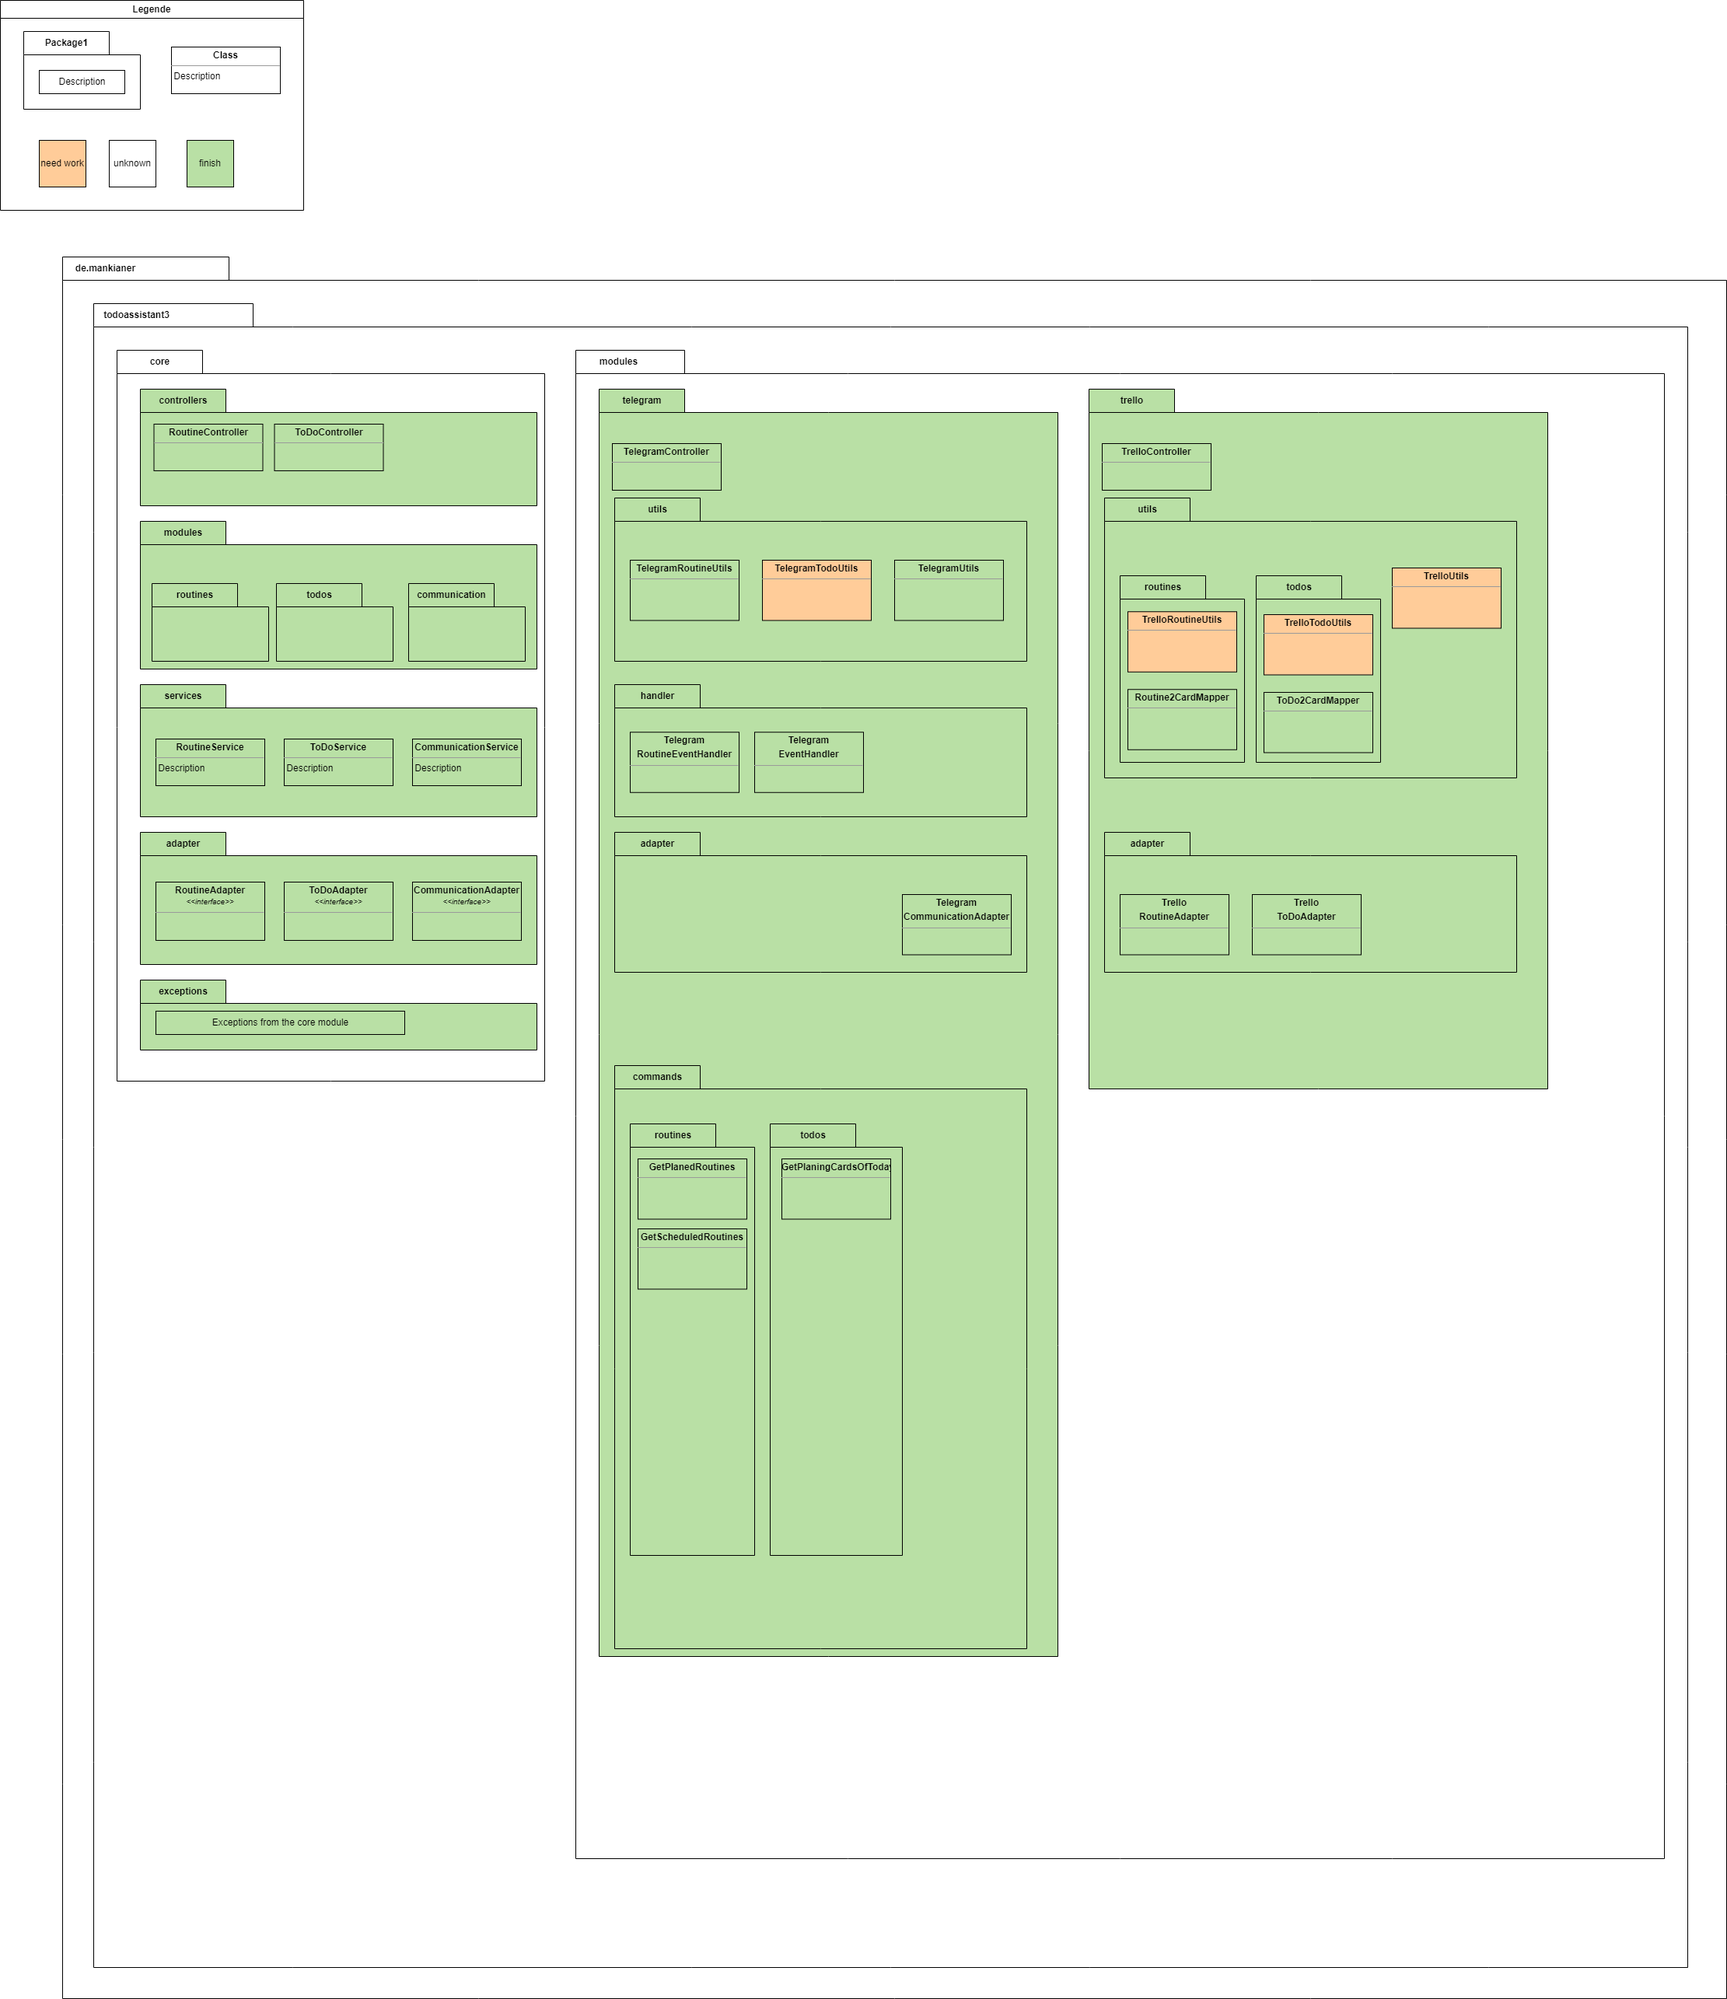
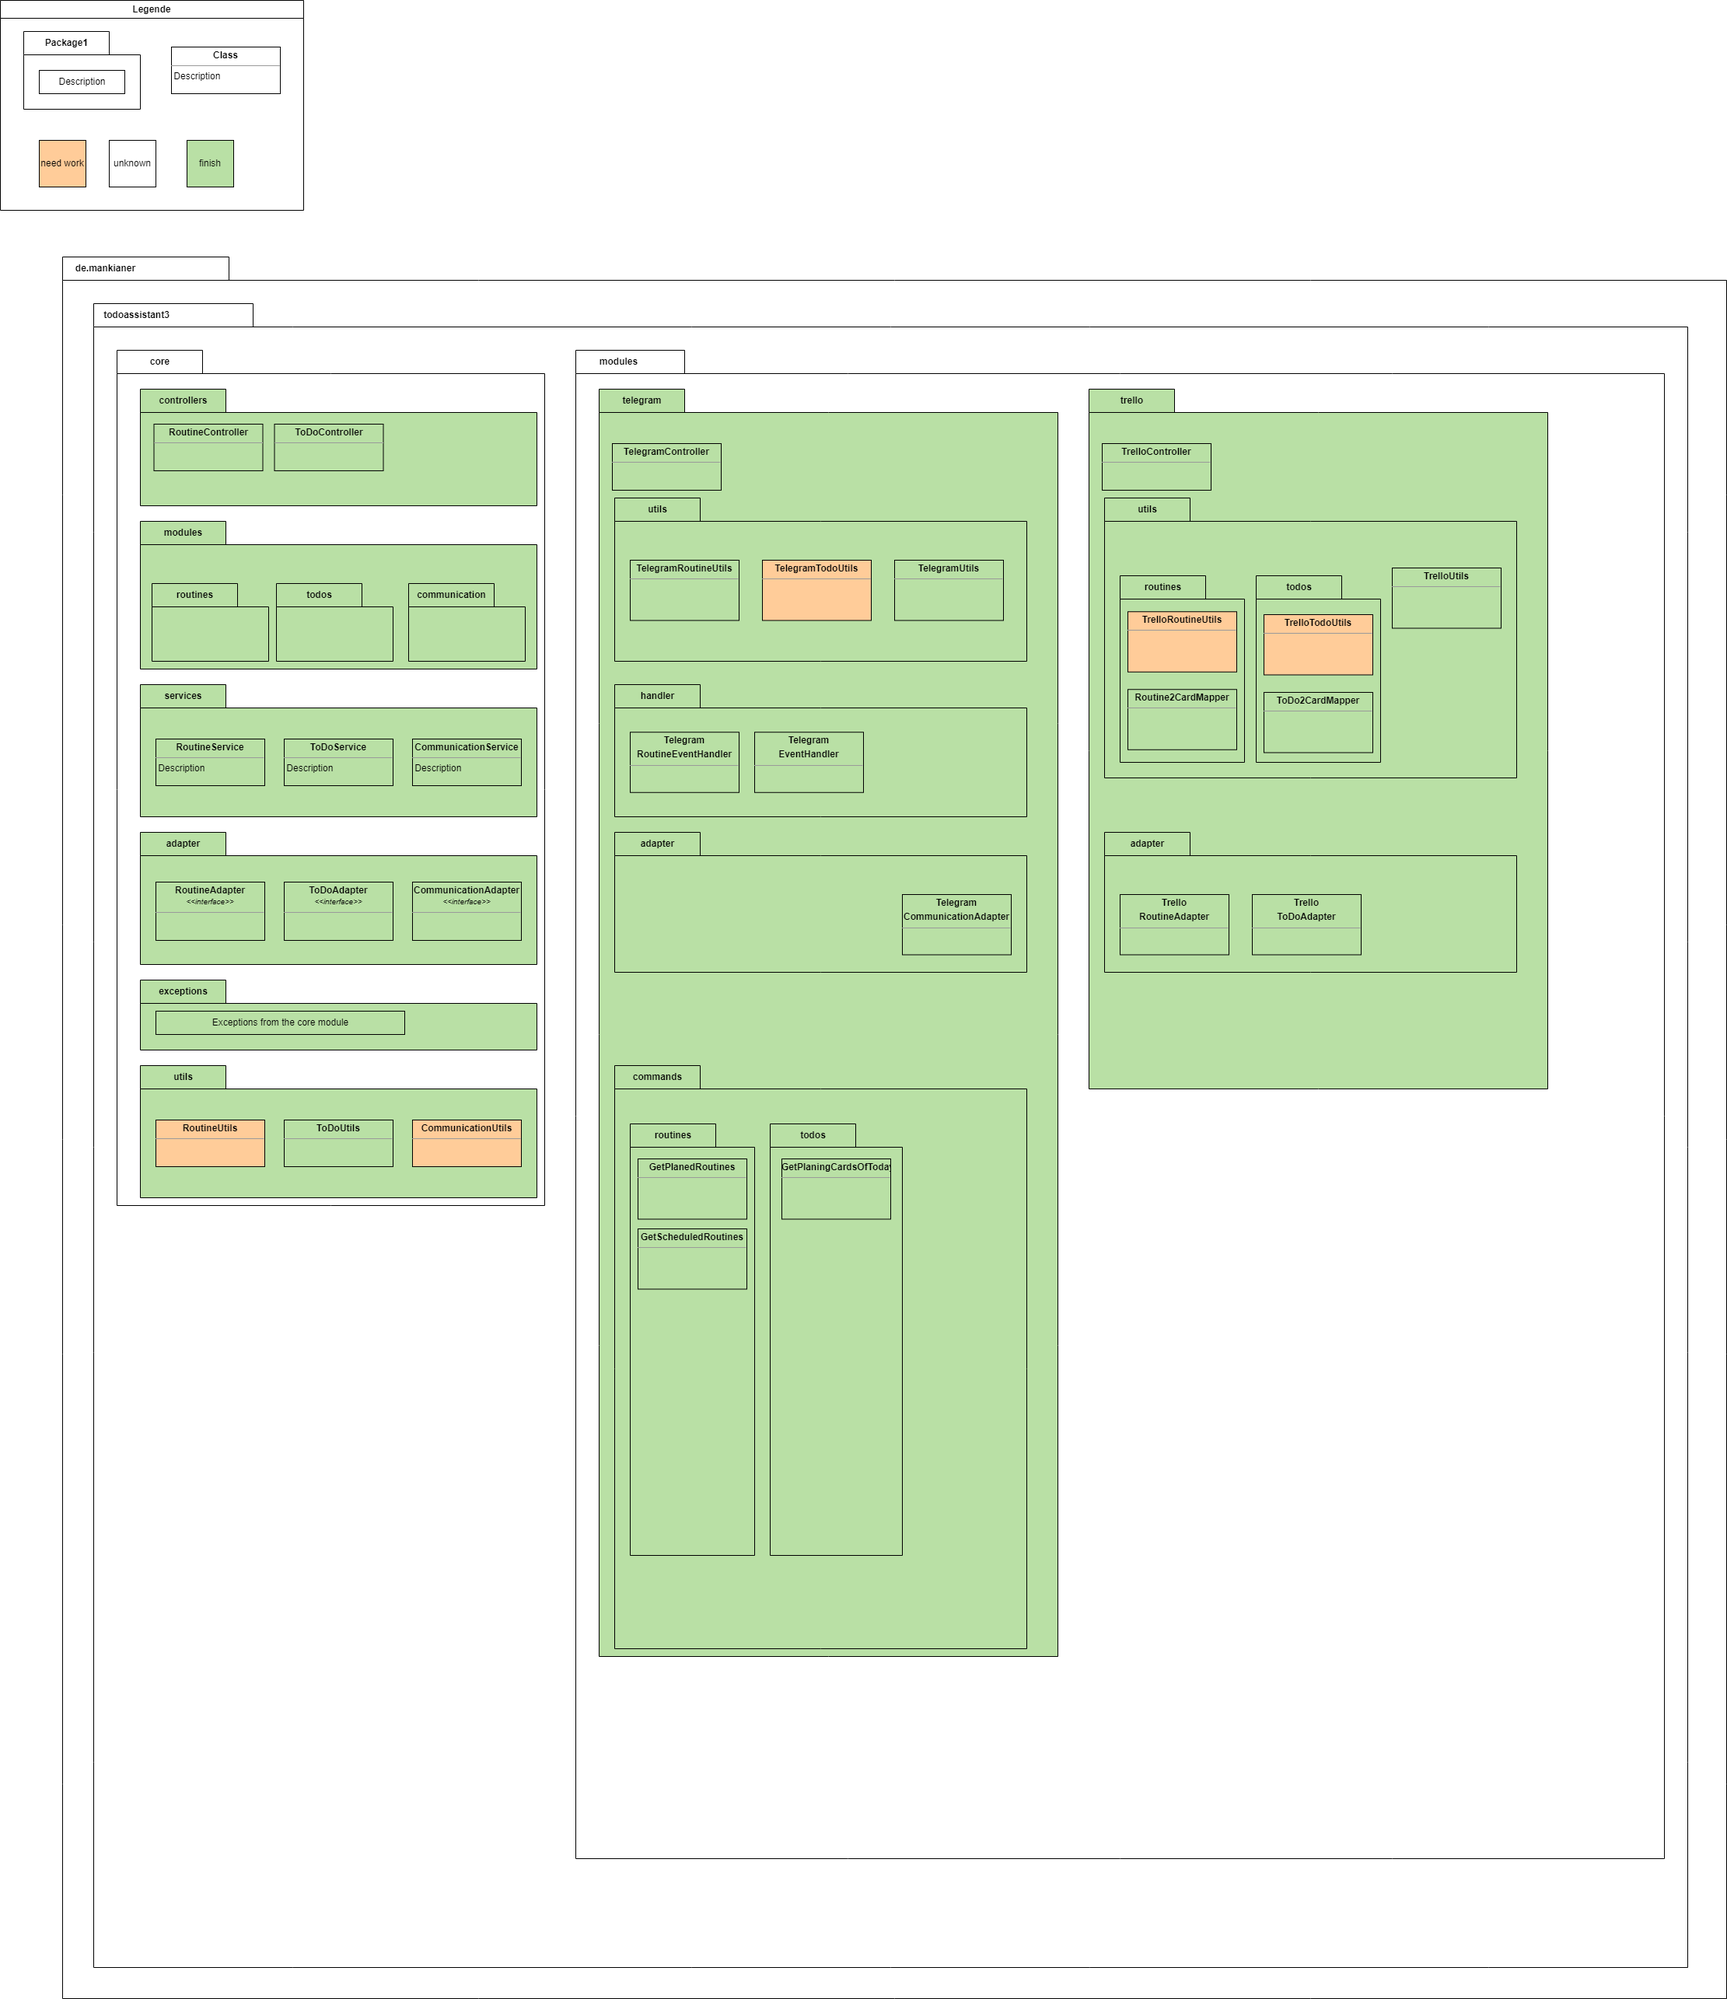
refactor

Changed region(s): [[0.0621, 0.529, 0.3107, 0.6223], [0.8077, 0.28, 0.8699, 0.3112]]

diff --git a/src/main/java/de/mankianer/todoassistant3/modules/telegram/commands/todos/GetPlaningCardsOfToday.java b/src/main/java/de/mankianer/todoassistant3/modules/telegram/commands/todos/GetPlaningCardsOfToday.java
@@ -3,9 +3,9 @@ package de.mankianer.todoassistant3.modules.telegram.commands.todos;
 import de.mankianer.mankianerstelegramspringstarter.TelegramService;
 import de.mankianer.mankianerstelegramspringstarter.commands.models.TelegramCommand;
 import de.mankianer.mankianerstelegramspringstarter.commands.models.TelegramInMessage;
-import de.mankianer.todoassistant3.Utils;
 import de.mankianer.todoassistant3.core.models.todos.ToDoStatus;
 import de.mankianer.todoassistant3.core.services.ToDoService;
+import de.mankianer.todoassistant3.core.utils.ToDoUtils;
 import org.springframework.stereotype.Component;
 
 import java.time.LocalDateTime;
@@ -30,10 +30,10 @@ public class GetPlaningCardsOfToday extends TelegramCommand {
     if (args.length > 0 && "all".equals(args[0])) {
       planingCardsWithDueTodayAsMessageWithMarkdown = "*Alle Todos in Planung:*";
       planingCardsWithDueTodayAsMessageWithMarkdown +=
-              Utils.TodosToMarkdownMessage(toDoService.getAllToDosByStatus(ToDoStatus.IN_PLANING));
+              ToDoUtils.TodosToMarkdownMessage(toDoService.getAllToDosByStatus(ToDoStatus.IN_PLANING));
     } else {
       planingCardsWithDueTodayAsMessageWithMarkdown =
-          Utils.TodosToMarkdownMessage(toDoService.getAllToDosByStatus(ToDoStatus.IN_PLANING).stream().filter(toDo -> !toDo.getDueDate().isAfter(LocalDateTime.now())).toList());
+              ToDoUtils.TodosToMarkdownMessage(toDoService.getAllToDosByStatus(ToDoStatus.IN_PLANING).stream().filter(toDo -> !toDo.getDueDate().isAfter(LocalDateTime.now())).toList());
       if (planingCardsWithDueTodayAsMessageWithMarkdown.isBlank()) {
         planingCardsWithDueTodayAsMessageWithMarkdown =
             "Es müssen heute keine Todos eingeplant werden\\.\nMit /plan all kannst du dir alle ToDos in der Planung ausgeben lassen\\.";

diff --git a/src/main/java/de/mankianer/todoassistant3/Utils.java b/src/main/java/de/mankianer/todoassistant3/Utils.java
@@ -1,45 +1,12 @@
 package de.mankianer.todoassistant3;
 
-import com.julienvey.trello.domain.Card;
-import de.mankianer.todoassistant3.core.models.todos.ToDo;
 import lombok.NonNull;
 
-import java.time.LocalDate;
 import java.time.LocalDateTime;
-import java.time.ZoneId;
-import java.util.Date;
-import java.util.List;
 
 public class Utils {
 
-  public static LocalDateTime convertToLocalDateTimeViaInstant(Date dateToConvert) {
-    return dateToConvert.toInstant().atZone(ZoneId.systemDefault()).toLocalDateTime();
-  }
-
-  public static Date convertToDateViaInstant(LocalDateTime dateToConvert) {
-    return java.util.Date.from(dateToConvert.atZone(ZoneId.systemDefault()).toInstant());
-  }
-
-  public static boolean isBevorOrToday(@NonNull Date date) {
-    LocalDateTime localDateTime = convertToLocalDateTimeViaInstant(date);
-    LocalDate localDate = localDateTime.toLocalDate();
-    LocalDate today = LocalDate.now();
-    return localDate.isEqual(today) || localDate.isBefore(today);
-  }
-
-  public static String TodosToMarkdownMessage(List<ToDo> todos) {
-    String ret = "";
-    for (ToDo todo : todos) {
-      ret += String.format("\n  \\*__%s__: *%s* ", todo.getId(), todo.getName());
-    }
-    return ret;
-  }
-
-  public static String CardsToMarkdownMessage(List<Card> cards) {
-    String ret = "";
-    for (Card card : cards) {
-      ret += String.format("\n  \\*__%s__: *%s* ", card.getId(), card.getName());
-    }
-    return ret;
+  public static boolean isBevorOrToday(@NonNull LocalDateTime localDate) {
+    return localDate.isEqual(LocalDateTime.now()) || localDate.isBefore(LocalDateTime.now());
   }
 }

diff --git a/src/main/java/de/mankianer/todoassistant3/modules/trello/utils/todos/ToDo2CardMapper.java b/src/main/java/de/mankianer/todoassistant3/modules/trello/utils/todos/ToDo2CardMapper.java
@@ -2,9 +2,9 @@ package de.mankianer.todoassistant3.modules.trello.utils.todos;
 
 import com.julienvey.trello.Trello;
 import com.julienvey.trello.domain.Card;
-import de.mankianer.todoassistant3.Utils;
 import de.mankianer.todoassistant3.core.models.todos.ToDo;
 import de.mankianer.todoassistant3.core.models.todos.ToDoStatus;
+import de.mankianer.todoassistant3.modules.trello.utils.TrelloUtils;
 import org.springframework.lang.NonNull;
 
 import java.util.HashMap;
@@ -17,7 +17,7 @@ public class ToDo2CardMapper {
 
     public ToDo mapCardToToDo(@NonNull Card card) {
         ToDo.ToDoBuilder builder = ToDo.builder();
-        if(card.getDue() != null) builder.dueDate(Utils.convertToLocalDateTimeViaInstant(card.getDue()));
+        if(card.getDue() != null) builder.dueDate(TrelloUtils.convertToLocalDateTimeViaInstant(card.getDue()));
         return builder
                 .id(card.getId())
                 .name(card.getName())
@@ -39,7 +39,7 @@ public class ToDo2CardMapper {
         card.setName(toDo.getName());
         card.setDesc(toDo.getDescription());
         card.setIdList(listIdMap.get(toDo.getStatus()));
-        if(toDo.getDueDate() != null) card.setDue(Utils.convertToDateViaInstant(toDo.getDueDate()));
+        if(toDo.getDueDate() != null) card.setDue(TrelloUtils.convertToDateViaInstant(toDo.getDueDate()));
         return card;
     }
 

diff --git a/src/main/java/de/mankianer/todoassistant3/modules/trello/adapter/TrelloToDoAdapter.java b/src/main/java/de/mankianer/todoassistant3/modules/trello/adapter/TrelloToDoAdapter.java
@@ -6,7 +6,6 @@ import com.julienvey.trello.domain.Card;
 import com.julienvey.trello.domain.TList;
 import com.julienvey.trello.impl.TrelloImpl;
 import com.julienvey.trello.impl.http.ApacheHttpClient;
-import de.mankianer.todoassistant3.Utils;
 import de.mankianer.todoassistant3.core.adapter.ToDoAdapter;
 import de.mankianer.todoassistant3.core.exceptions.CouldNotCreateException;
 import de.mankianer.todoassistant3.core.models.todos.ToDo;
@@ -81,21 +80,6 @@ public class TrelloToDoAdapter implements ToDoAdapter {
 
   public List<Card> getCards(TList list) {
     return trelloApi.getListCards(list.getId());
-  }
-
-  public List<Card> getPlaningCardsWithDueToday() {
-    return trelloApi.getListCards(planingList.getId()).stream()
-        .filter(card -> card.getDue() != null && Utils.isBevorOrToday(card.getDue()))
-        .collect(Collectors.toList());
-  }
-
-  public String getPlaningCardsWithDueTodayAsMessageWithMarkdown() {
-    List<Card> planingCardsWithDueToday = getPlaningCardsWithDueToday();
-    if (planingCardsWithDueToday.size() == 0) {
-      return "";
-    }
-    return "Folgende ToDos stehen in Planung, die heute eingeplant werden müssen:\n  Du kannst diese mit /plan erneut abfragen\n"
-        + Utils.CardsToMarkdownMessage(planingCardsWithDueToday);
   }
 
   @Override

diff --git a/src/main/java/de/mankianer/todoassistant3/core/controllers/ToDoController.java b/src/main/java/de/mankianer/todoassistant3/core/controllers/ToDoController.java
@@ -1,9 +1,12 @@
 package de.mankianer.todoassistant3.core.controllers;
 
+import de.mankianer.todoassistant3.core.models.communication.Message;
 import de.mankianer.todoassistant3.core.services.CommunicationService;
 import de.mankianer.todoassistant3.core.services.ToDoService;
+import de.mankianer.todoassistant3.core.utils.ToDoUtils;
 import lombok.extern.log4j.Log4j2;
 import org.springframework.beans.factory.annotation.Autowired;
+import org.springframework.scheduling.annotation.Scheduled;
 import org.springframework.stereotype.Service;
 
 @Log4j2
@@ -16,6 +19,14 @@ public class ToDoController {
     public ToDoController(@Autowired ToDoService toDoService, @Autowired CommunicationService communicationService) {
         this.toDoService = toDoService;
         this.communicationService = communicationService;
+    }
+
+    @Scheduled(cron = "${todo.checkToPlaning.cron.expression}")
+    public void checkToPlaningList() {
+        String planingCardsWithDueTodayAsMessageWithMarkdown = ToDoUtils.getPlaningToDosWithDueTodayAsMessageWithMarkdown(toDoService.getPlaningCardsWithDueToday());
+        if (!planingCardsWithDueTodayAsMessageWithMarkdown.isBlank()) {
+            communicationService.sendMessage(Message.ofMd(planingCardsWithDueTodayAsMessageWithMarkdown));
+        }
     }
 
 }

diff --git a/src/main/java/de/mankianer/todoassistant3/modules/trello/TrelloController.java b/src/main/java/de/mankianer/todoassistant3/modules/trello/TrelloController.java
@@ -5,7 +5,6 @@ import de.mankianer.todoassistant3.core.services.CommunicationService;
 import de.mankianer.todoassistant3.modules.trello.adapter.TrelloRoutineAdapter;
 import de.mankianer.todoassistant3.modules.trello.adapter.TrelloToDoAdapter;
 import lombok.extern.log4j.Log4j2;
-import org.springframework.scheduling.annotation.Scheduled;
 import org.springframework.stereotype.Component;
 
 import javax.annotation.PostConstruct;
@@ -36,15 +35,6 @@ public class TrelloController {
       communicationService.sendMessage(Message.of("Trello Routine data loaded successfully"));
     } else {
       communicationService.sendMessage(Message.of("Trello Routine data loaded failed!"));
-    }
-  }
-
-  @Scheduled(cron = "${todo.checkToPlaning.cron.expression}")
-  public void checkToPlaningList() {
-    String planingCardsWithDueTodayAsMessageWithMarkdown =
-        trelloToDoAdapter.getPlaningCardsWithDueTodayAsMessageWithMarkdown();
-    if (!planingCardsWithDueTodayAsMessageWithMarkdown.isBlank()) {
-      communicationService.sendMessage(Message.ofMd(planingCardsWithDueTodayAsMessageWithMarkdown));
     }
   }
 }

diff --git a/src/main/java/de/mankianer/todoassistant3/modules/trello/utils/routines/Reoutine2CardMapper.java b/src/main/java/de/mankianer/todoassistant3/modules/trello/utils/routines/Reoutine2CardMapper.java
@@ -2,9 +2,9 @@ package de.mankianer.todoassistant3.modules.trello.utils.routines;
 
 import com.julienvey.trello.Trello;
 import com.julienvey.trello.domain.Card;
-import de.mankianer.todoassistant3.Utils;
 import de.mankianer.todoassistant3.core.models.routines.Routine;
 import de.mankianer.todoassistant3.core.models.routines.RoutineStatus;
+import de.mankianer.todoassistant3.modules.trello.utils.TrelloUtils;
 import lombok.extern.log4j.Log4j2;
 import org.springframework.lang.NonNull;
 import org.springframework.scheduling.support.CronExpression;
@@ -51,7 +51,7 @@ public class Reoutine2CardMapper {
         card.setName(routine.getName());
         card.setDesc(routine.getDescription());
         card.setIdList(listIdMap.get(routine.getStatus()));
-        card.setDue(Utils.convertToDateViaInstant(routine.getNextExecution()));
+        card.setDue(TrelloUtils.convertToDateViaInstant(routine.getNextExecution()));
         return card;
     }
 

diff --git a/src/main/java/de/mankianer/todoassistant3/core/utils/ToDoUtils.java b/src/main/java/de/mankianer/todoassistant3/core/utils/ToDoUtils.java
@@ -1,0 +1,23 @@
+package de.mankianer.todoassistant3.core.utils;
+
+import de.mankianer.todoassistant3.core.models.todos.ToDo;
+
+import java.util.List;
+
+public class ToDoUtils {
+    public static String TodosToMarkdownMessage(List<ToDo> todos) {
+        String ret = "";
+        for (ToDo todo : todos) {
+            ret += String.format("\n  \\*__%s__: *%s* ", todo.getId(), todo.getName());
+        }
+        return ret;
+    }
+
+    public static String getPlaningToDosWithDueTodayAsMessageWithMarkdown(List<ToDo> toDos) {
+        if (toDos.size() == 0) {
+            return "";
+        }
+        return "Folgende ToDos stehen in Planung, die heute eingeplant werden müssen:\n  Du kannst diese mit /plan erneut abfragen\n"
+                + TodosToMarkdownMessage(toDos);
+    }
+}

diff --git a/src/main/java/de/mankianer/todoassistant3/core/services/ToDoService.java b/src/main/java/de/mankianer/todoassistant3/core/services/ToDoService.java
@@ -1,5 +1,6 @@
 package de.mankianer.todoassistant3.core.services;
 
+import de.mankianer.todoassistant3.Utils;
 import de.mankianer.todoassistant3.core.adapter.ToDoAdapter;
 import de.mankianer.todoassistant3.core.exceptions.CouldNotCreateException;
 import de.mankianer.todoassistant3.core.models.todos.ToDo;
@@ -42,4 +43,11 @@ public class ToDoService {
     public List<ToDo> getAllToDosByStatus(ToDoStatus status) {
         return getAllToDos().stream().filter(todo -> status.equals(todo.getStatus())).toList();
     }
+
+    public List<ToDo> getPlaningCardsWithDueToday() {
+        return getAllToDosByStatus(ToDoStatus.IN_PLANING).stream()
+                .filter(todo -> todo.getDueDate() != null && Utils.isBevorOrToday(todo.getDueDate()))
+                .toList();
+    }
+
 }

diff --git a/src/main/java/de/mankianer/todoassistant3/modules/trello/utils/TrelloUtils.java b/src/main/java/de/mankianer/todoassistant3/modules/trello/utils/TrelloUtils.java
@@ -1,0 +1,15 @@
+package de.mankianer.todoassistant3.modules.trello.utils;
+
+import java.time.LocalDateTime;
+import java.time.ZoneId;
+import java.util.Date;
+
+public class TrelloUtils {
+    public static LocalDateTime convertToLocalDateTimeViaInstant(Date dateToConvert) {
+      return dateToConvert.toInstant().atZone(ZoneId.systemDefault()).toLocalDateTime();
+    }
+
+    public static Date convertToDateViaInstant(LocalDateTime dateToConvert) {
+      return Date.from(dateToConvert.atZone(ZoneId.systemDefault()).toInstant());
+    }
+}
